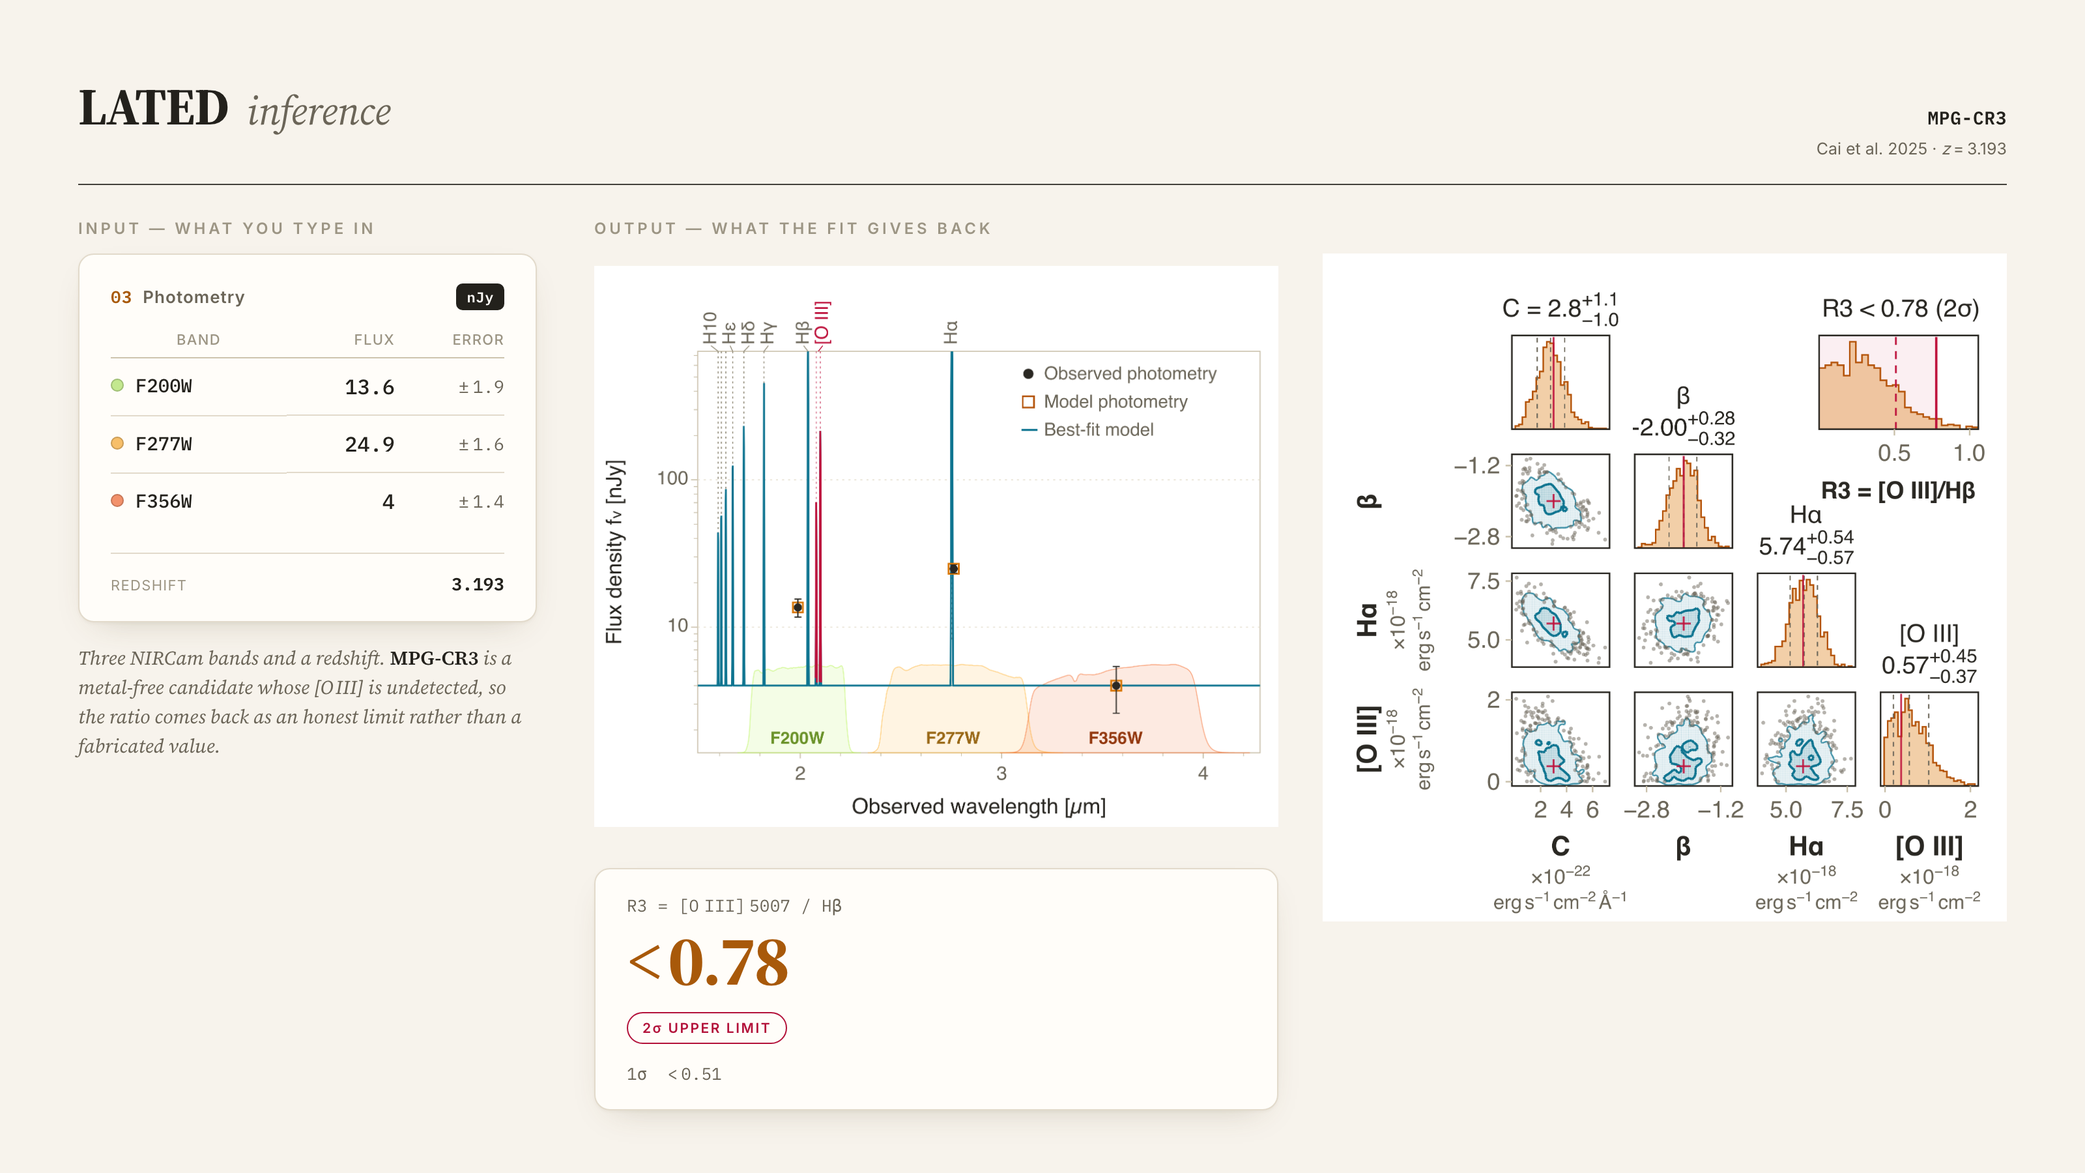
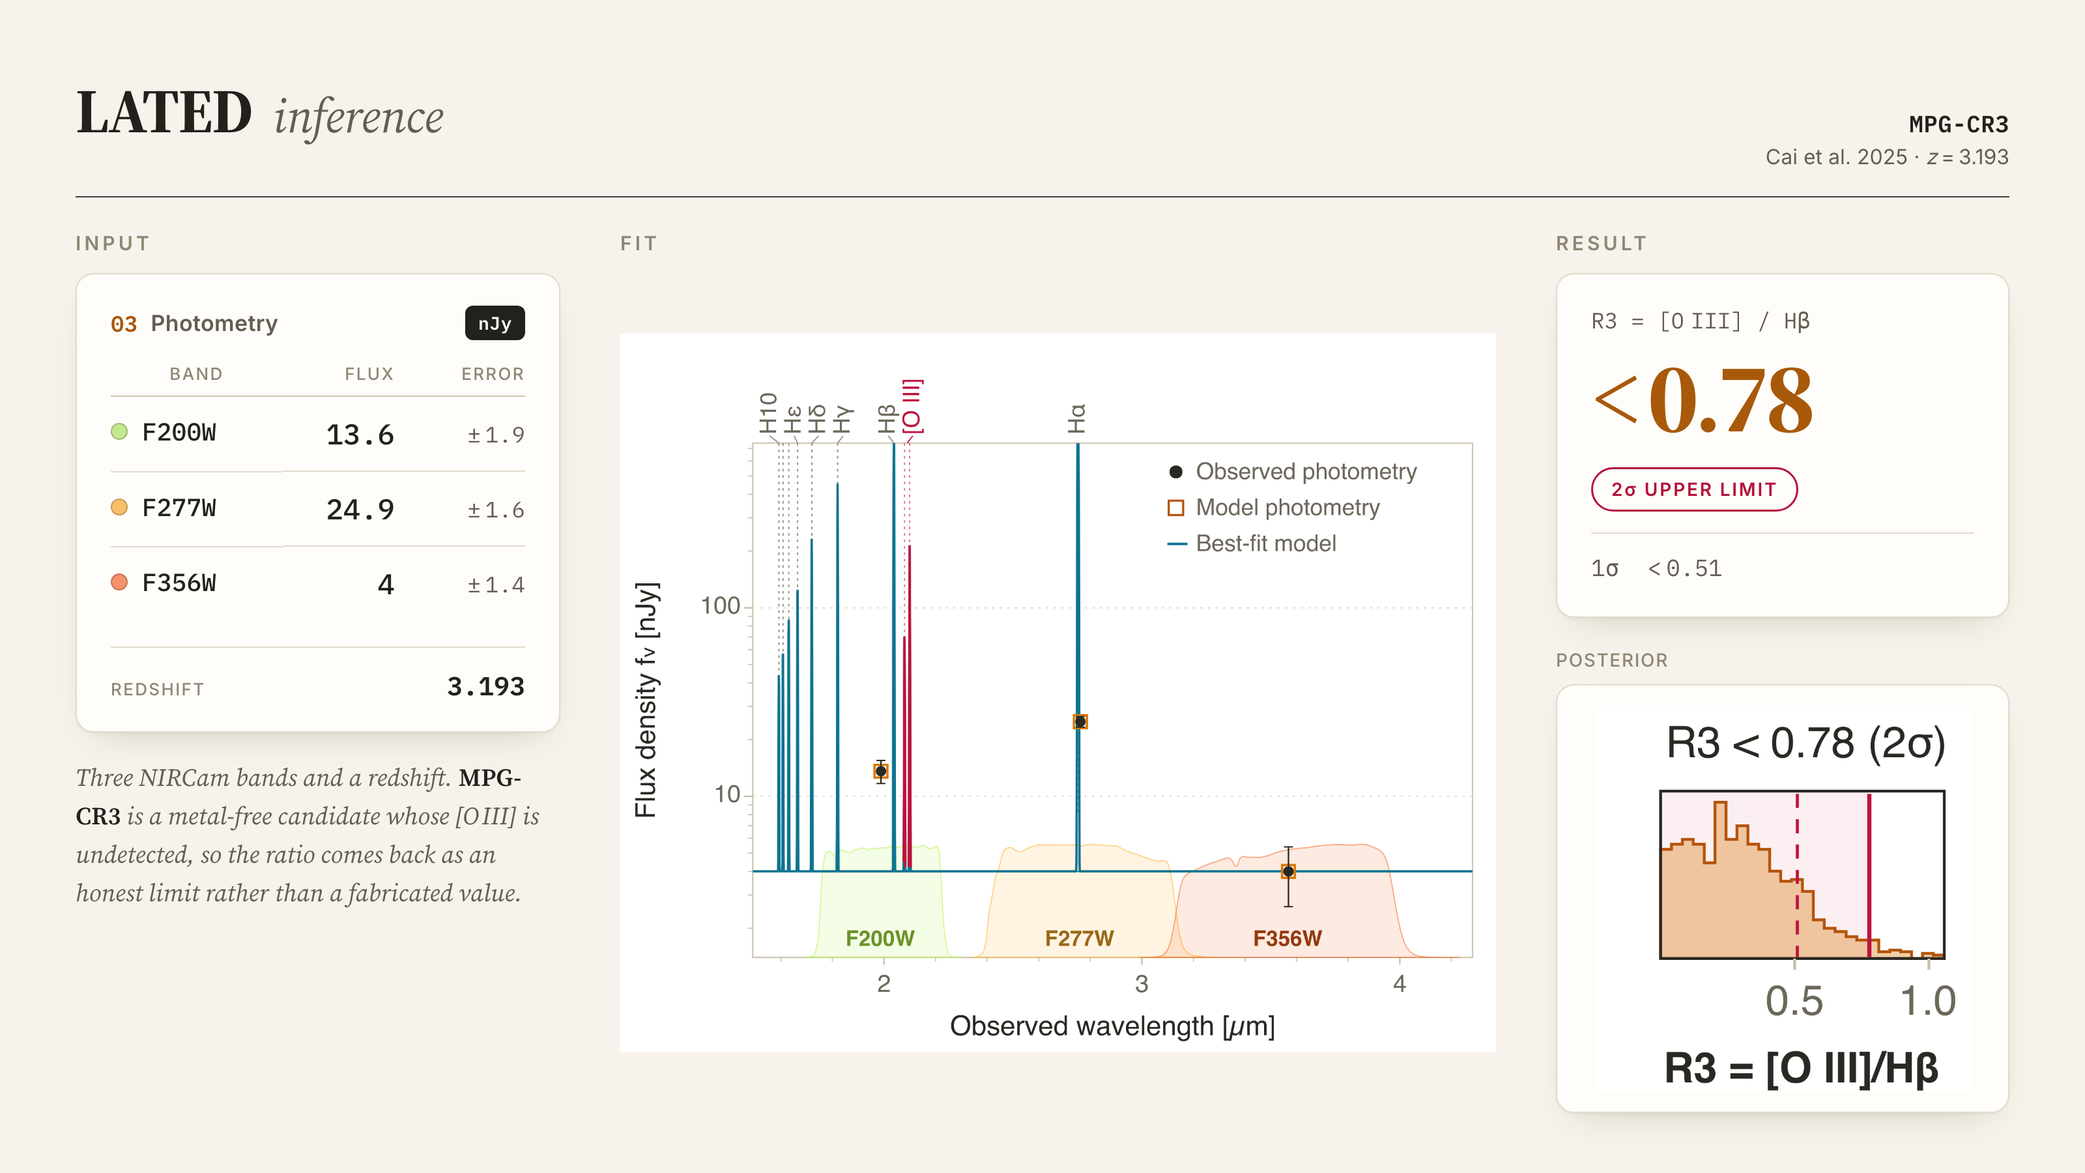
release: 0.3.2
Rebuild docs/webapp.png for legibility.  A README image is read at roughly
900 px wide, so everything in it has to survive being halved, and the previous
version did not: the chrome was set too small and the full 4x4 corner plot,
whose axis units are unreadable at any README width, was shrunk into a quarter
of the canvas.

Give the SED real estate, show only the R3 posterior panel that carries the
result, and set the text about 40 per cent larger throughout.  The figure is
authored as HTML/CSS and rendered with headless Chrome, which is what makes a
real type system possible.

Both plots remain the app's own PDF exports and the verdict numbers still come
from a live run of the packaged API.  The fit engine and public API are
untouched; all 66 tests unchanged.

diff --git a/docs/make_webapp_figure.py b/docs/make_webapp_figure.py
@@ -2,14 +2,16 @@
 
 The figure is authored as HTML/CSS and rendered with headless Chrome, which
 buys real typography (Source Serif 4, Inter, IBM Plex Mono via Google Fonts),
-proper optical spacing and hairline rules -- things a plotting library will
-not give you.
+tabular figures and optical spacing.
 
-The two plots are the app's *own* exports (`docs/cr3_sed.pdf` and
-`docs/cr3_corner.pdf`, produced by the "save PDF" buttons in the web app), so
-the figure shows exactly what a user gets rather than a reimplementation of
-it.  The verdict numbers come from a live run of the packaged API, so they
-cannot drift from the code.
+Legibility is the constraint that drives the layout.  A README image is read
+at roughly 900 px wide, so everything in it has to survive being halved.  That
+rules out the full 4x4 corner plot, whose axis units are unreadable at any
+README width; the figure shows the SED large and, of the posterior, only the
+R3 panel that carries the actual result.  The plots are the app's *own* PDF
+exports (`cr3_sed.pdf`, `cr3_corner.pdf`, from the "save PDF" buttons), and
+the verdict numbers come from a live run of the packaged API, so neither can
+drift from the code.
 
     python docs/make_webapp_figure.py
 
@@ -24,6 +26,8 @@ import shutil
 import subprocess
 import sys
 import tempfile
+
+from PIL import Image
 
 sys.path.insert(0, str(pathlib.Path(__file__).resolve().parents[1] / "src"))
 
@@ -40,6 +44,8 @@ PHOT = {"F200W": (13.6 * NJY, 1.9 * NJY),
 MC_DRAWS, MC_SEED = 3000, 9496                         # the worked-example setting
 
 SED_PDF, CORNER_PDF = HERE / "cr3_sed.pdf", HERE / "cr3_corner.pdf"
+# the R3 posterior sits in the free upper-right corner of the triangle
+R3_CROP = (0.672, 0.052, 0.980, 0.374)                 # left, top, right, bottom
 # band swatches as the app's own export draws them (sampled from cr3_sed.pdf)
 BAND_FILL = {"F200W": "#c3e88f", "F277W": "#f7bf6a", "F356W": "#f2916b"}
 
@@ -47,22 +53,28 @@ CANVAS_W, CANVAS_H, SCALE = 1600, 900, 2               # -> 3200 x 1800
 CHROME = "/Applications/Google Chrome.app/Contents/MacOS/Google Chrome"
 
 
-def rasterise(pdf: pathlib.Path, into: pathlib.Path, dpi: int = 300) -> str:
-    """Rasterise one of the app's PDF exports next to the page; return its name."""
-    stem = into / pdf.stem
+def rasterise(pdf: pathlib.Path, into: pathlib.Path, dpi: int = 300,
+              crop: tuple | None = None, name: str | None = None) -> str:
+    """Rasterise a PDF export beside the page, optionally cropping a region
+    given as fractions of the trimmed image.  Returns the file name."""
+    stem = into / (name or pdf.stem)
     subprocess.run(["pdftocairo", "-png", "-r", str(dpi), "-singlefile",
                     str(pdf), str(stem)], check=True)
-    return stem.with_suffix(".png").name
+    png = stem.with_suffix(".png")
+    if crop:
+        im = Image.open(png)
+        w, h = im.size
+        l, t, r, b = crop
+        im.crop((int(l * w), int(t * h), int(r * w), int(b * h))).save(png)
+    return png.name
 
 
 def rows_html() -> str:
-    out = []
-    for b, (f_, e_) in PHOT.items():
-        out.append(
-            f'<tr><th><i style="background:{BAND_FILL[b]}"></i>{b}</th>'
-            f'<td class="v">{f_ / NJY:g}</td>'
-            f'<td class="e">&plusmn;&thinsp;{e_ / NJY:g}</td></tr>')
-    return "\n".join(out)
+    return "\n".join(
+        f'<tr><th><i style="background:{BAND_FILL[b]}"></i>{b}</th>'
+        f'<td class="v">{f_ / NJY:g}</td>'
+        f'<td class="e">&plusmn;&thinsp;{e_ / NJY:g}</td></tr>'
+        for b, (f_, e_) in PHOT.items())
 
 
 HTML = """<!doctype html>
@@ -72,116 +84,120 @@ HTML = """<!doctype html>
 <link href="https://fonts.googleapis.com/css2?family=Source+Serif+4:ital,opsz,wght@0,8..60,400;0,8..60,600;0,8..60,700;1,8..60,400&family=Inter:wght@400;500;600&family=IBM+Plex+Mono:wght@400;500;600&display=swap" rel="stylesheet">
 <style>
   :root {{
-    --paper:#f7f3ec; --card:#fffdf9; --inset:#f2ece1;
+    --paper:#f7f3ec; --card:#fffdf9;
     --rule:#e2dacb; --rule-firm:#cdc4ae;
-    --ink:#23211c; --dim:#6b6558; --faint:#9c9584;
+    --ink:#23211c; --dim:#645e52; --faint:#8e8775;
     --amber:#a8590a; --rose:#b3123a;
   }}
   * {{ box-sizing:border-box; margin:0; padding:0; }}
   body {{
     width:{W}px; height:{H}px; background:var(--paper); color:var(--ink);
     font-family:"Inter",system-ui,sans-serif; -webkit-font-smoothing:antialiased;
-    padding:54px 60px 48px; display:flex; flex-direction:column;
+    padding:52px 58px 46px; display:flex; flex-direction:column;
   }}
   .eyebrow {{
-    font-family:"Inter",sans-serif; font-weight:600; font-size:12px;
-    letter-spacing:.20em; text-transform:uppercase; color:var(--faint);
+    font-weight:600; font-size:15px; letter-spacing:.17em;
+    text-transform:uppercase; color:var(--faint); margin-bottom:14px;
   }}
 
   /* ---------- masthead ---------- */
-  header {{ display:flex; align-items:baseline; gap:14px; padding-bottom:16px; }}
-  .word {{ font-family:"Source Serif 4",serif; font-weight:700; font-size:40px;
+  header {{ display:flex; align-items:baseline; gap:16px; padding-bottom:18px; }}
+  .word {{ font-family:"Source Serif 4",serif; font-weight:700; font-size:48px;
            letter-spacing:-.015em; }}
   .kind {{ font-family:"Source Serif 4",serif; font-style:italic; font-weight:400;
-           font-size:31px; color:var(--dim); letter-spacing:-.01em; }}
+           font-size:37px; color:var(--dim); letter-spacing:-.01em; }}
   header .spacer {{ flex:1; }}
-  .subject {{ text-align:right; line-height:1.45; }}
+  .subject {{ text-align:right; line-height:1.5; }}
   .subject b {{ font-family:"IBM Plex Mono",monospace; font-weight:600;
-                font-size:14px; letter-spacing:.02em; }}
-  .subject span {{ font-size:12.5px; color:var(--dim); }}
+                font-size:18px; letter-spacing:.01em; }}
+  .subject span {{ font-size:16px; color:var(--dim); }}
   .hr {{ height:1px; background:var(--ink); opacity:.85; }}
-  .hr.thin {{ background:var(--rule-firm); opacity:1; }}
 
   /* ---------- body grid ---------- */
-  main {{ flex:1; display:grid; grid-template-columns:352px 1fr;
-          gap:44px; padding-top:26px; min-height:0; }}
+  main {{ flex:1; display:grid; grid-template-columns:372px 1fr 348px;
+          gap:46px; padding-top:26px; min-height:0; }}
   .col {{ display:flex; flex-direction:column; min-height:0; }}
-  .col > .eyebrow {{ margin-bottom:12px; }}
 
-  /* ---------- input ---------- */
+  /* ---------- cards ---------- */
   .card {{ background:var(--card); border:1px solid var(--rule);
-           border-radius:12px; box-shadow:0 1px 2px rgba(90,75,40,.05),
-           0 10px 26px -14px rgba(90,75,40,.28); }}
-  .pcard {{ padding:22px 24px 20px; }}
-  .pcard h3 {{ font-size:13px; font-weight:600; letter-spacing:.04em;
-               color:var(--dim); display:flex; align-items:center; gap:8px; }}
+           border-radius:14px; box-shadow:0 1px 2px rgba(90,75,40,.05),
+           0 12px 28px -16px rgba(90,75,40,.30); }}
+  .pcard {{ padding:24px 26px 22px; }}
+  .pcard h3 {{ font-size:17px; font-weight:600; letter-spacing:.01em;
+               color:var(--dim); display:flex; align-items:center; gap:10px; }}
   .pcard h3 em {{ font-family:"IBM Plex Mono",monospace; font-style:normal;
                   color:var(--amber); font-weight:600; }}
-  .unit {{ margin-left:auto; font-family:"IBM Plex Mono",monospace; font-size:11px;
-           color:var(--card); background:var(--ink); padding:3px 8px;
-           border-radius:5px; letter-spacing:.03em; }}
-  table {{ width:100%; border-collapse:collapse; margin-top:16px; }}
-  thead th {{ font-size:11px; font-weight:500; color:var(--faint);
-              letter-spacing:.06em; text-transform:uppercase;
-              padding-bottom:7px; border-bottom:1px solid var(--rule-firm); }}
+  .unit {{ margin-left:auto; font-family:"IBM Plex Mono",monospace; font-size:14px;
+           color:var(--card); background:var(--ink); padding:4px 10px;
+           border-radius:6px; letter-spacing:.02em; }}
+  table {{ width:100%; border-collapse:collapse; margin-top:18px; }}
+  thead th {{ font-size:13px; font-weight:500; color:var(--faint);
+              letter-spacing:.09em; text-transform:uppercase;
+              padding-bottom:9px; border-bottom:1px solid var(--rule-firm); }}
   thead th:nth-child(2), thead th:nth-child(3) {{ text-align:right; }}
   tbody th {{ text-align:left; font-family:"IBM Plex Mono",monospace;
-              font-weight:500; font-size:14.5px; padding:11px 0;
-              display:flex; align-items:center; gap:9px; }}
-  tbody th i {{ width:10px; height:10px; border-radius:50%; display:inline-block;
-                box-shadow:inset 0 0 0 1px rgba(0,0,0,.18); }}
+              font-weight:500; font-size:19px; padding:14px 0;
+              display:flex; align-items:center; gap:11px; }}
+  tbody th i {{ width:13px; height:13px; border-radius:50%; display:inline-block;
+                box-shadow:inset 0 0 0 1px rgba(0,0,0,.20); }}
   tbody td {{ text-align:right; font-family:"IBM Plex Mono",monospace;
-              font-variant-numeric:tabular-nums; padding:11px 0; }}
-  td.v {{ font-size:16px; font-weight:500; }}
-  td.e {{ font-size:13.5px; color:var(--dim); width:84px; }}
+              font-variant-numeric:tabular-nums; padding:14px 0; }}
+  td.v {{ font-size:22px; font-weight:500; }}
+  td.e {{ font-size:17px; color:var(--dim); width:100px; }}
   tbody tr + tr th, tbody tr + tr td {{ border-top:1px solid var(--rule); }}
-  .redshift {{ margin-top:18px; padding-top:14px; border-top:1px solid var(--rule);
+  .redshift {{ margin-top:20px; padding-top:16px; border-top:1px solid var(--rule);
                display:flex; justify-content:space-between; align-items:baseline;
-               font-family:"IBM Plex Mono",monospace; font-size:13.5px; }}
-  .redshift span {{ color:var(--faint); font-size:11px; letter-spacing:.06em;
-                    text-transform:uppercase; font-family:"Inter",sans-serif; }}
-  .source {{ margin-top:16px; font-family:"Source Serif 4",serif; font-size:15px;
-             font-style:italic; color:var(--dim); line-height:1.5; }}
-  .source b {{ font-style:normal; font-weight:600; color:var(--ink); }}
+               font-family:"IBM Plex Mono",monospace; font-size:20px;
+               font-weight:500; }}
+  .redshift span {{ color:var(--faint); font-size:13px; letter-spacing:.09em;
+                    text-transform:uppercase; font-family:"Inter",sans-serif;
+                    font-weight:500; }}
+  .note {{ margin-top:20px; font-family:"Source Serif 4",serif; font-size:19px;
+           font-style:italic; color:var(--dim); line-height:1.55; }}
+  .note b {{ font-style:normal; font-weight:600; color:var(--ink); }}
 
-  /* ---------- output ---------- */
+  /* ---------- plots ---------- */
   .plot {{ min-height:0; display:flex; align-items:center;
            justify-content:center; overflow:hidden; }}
-  .plot img {{ max-width:100%; max-height:100%; width:auto; height:auto;
-               object-fit:contain; }}
-  .outgrid {{ flex:1; display:grid; grid-template-columns:1fr 1fr;
-              gap:34px; min-height:0; }}
-  .stack {{ display:flex; flex-direction:column; gap:22px; min-height:0; }}
-  .stack .sed {{ flex:1 1 0; }}
-  .stack .verdict {{ flex:0 0 186px; }}
-  .outgrid > .plot {{ align-items:flex-start; }}
-  .verdict {{ padding:18px 24px; display:flex; flex-direction:column;
-              justify-content:center; }}
-  .verdict .lab {{ font-family:"IBM Plex Mono",monospace; font-size:13px;
-                   color:var(--dim); letter-spacing:.01em; }}
+  .plot img {{ max-width:100%; max-height:100%; width:auto; height:auto; }}
+  .col.mid .plot {{ flex:1 1 0; }}
+
+  /* ---------- verdict ---------- */
+  .verdict {{ padding:24px 26px 26px; }}
+  .verdict .lab {{ font-family:"IBM Plex Mono",monospace; font-size:17px;
+                   color:var(--dim); }}
   .verdict .num {{ font-family:"Source Serif 4",serif; font-weight:700;
-                   font-size:54px; line-height:1.02; color:var(--amber);
-                   letter-spacing:-.025em; margin:6px 0 2px;
+                   font-size:76px; line-height:1.0; color:var(--amber);
+                   letter-spacing:-.03em; margin:10px 0 0;
                    font-variant-numeric:tabular-nums; }}
-  .tag {{ display:inline-block; align-self:flex-start; font-family:"Inter",sans-serif;
-          font-size:10.5px; font-weight:600; letter-spacing:.12em;
-          color:var(--rose);
-          border:1px solid var(--rose); border-radius:999px;
-          padding:5px 11px; margin-top:10px; }}
-  .verdict .one {{ margin-top:14px; font-family:"IBM Plex Mono",monospace;
-                   font-size:13px; color:var(--dim); }}
+  .tag {{ display:inline-block; font-size:14px; font-weight:600;
+          letter-spacing:.10em; color:var(--rose); border:1.5px solid var(--rose);
+          border-radius:999px; padding:7px 14px; margin-top:16px; }}
+  .verdict .one {{ margin-top:16px; padding-top:14px;
+                   border-top:1px solid var(--rule);
+                   font-family:"IBM Plex Mono",monospace; font-size:18px;
+                   color:var(--dim); }}
+  .post {{ margin-top:24px; display:flex; flex-direction:column; min-height:0;
+           flex:1 1 0; }}
+  .post .plot {{ flex:1 1 0; background:var(--card); border:1px solid var(--rule);
+                 border-radius:14px; padding:16px 18px;
+                 box-shadow:0 1px 2px rgba(90,75,40,.05),
+                            0 12px 28px -16px rgba(90,75,40,.30); }}
+  .post .cap {{ font-size:14px; color:var(--faint); letter-spacing:.06em;
+                text-transform:uppercase; font-weight:500; margin-bottom:10px; }}
 </style></head>
 <body>
   <header>
     <span class="word">LATED</span><span class="kind">inference</span>
     <span class="spacer"></span>
-    <span class="subject"><b>{SOURCE}</b><br><span>{REFERENCE} &middot; <i>z</i>&thinsp;=&thinsp;{Z}</span></span>
+    <span class="subject"><b>{SOURCE}</b><br>
+      <span>{REFERENCE} &middot; <i>z</i>&thinsp;=&thinsp;{Z}</span></span>
   </header>
   <div class="hr"></div>
 
   <main>
     <section class="col">
-      <div class="eyebrow">Input &mdash; what you type in</div>
+      <div class="eyebrow">Input</div>
       <div class="card pcard">
         <h3><em>03</em> Photometry <span class="unit">nJy</span></h3>
         <table>
@@ -192,24 +208,27 @@ HTML = """<!doctype html>
         </table>
         <div class="redshift"><span>Redshift</span><b>{Z}</b></div>
       </div>
-      <p class="source">Three NIRCam bands and a redshift. <b>{SOURCE}</b> is a
-      metal&#8209;free candidate whose [O&#8239;III] is undetected, so the ratio
-      comes back as an honest limit rather than a fabricated value.</p>
+      <p class="note">Three NIRCam bands and a redshift. <b>{SOURCE}</b> is a
+      metal&#8209;free candidate whose [O&#8239;III] is undetected, so the
+      ratio comes back as an honest limit rather than a fabricated value.</p>
+    </section>
+
+    <section class="col mid">
+      <div class="eyebrow">Fit</div>
+      <div class="plot"><img src="{SED}" alt="best-fit model through the bands"></div>
     </section>
 
     <section class="col">
-      <div class="eyebrow">Output &mdash; what the fit gives back</div>
-      <div class="outgrid">
-        <div class="stack">
-          <div class="plot sed"><img src="{SED}" alt="SED"></div>
-          <div class="card verdict">
-            <div class="lab">R3 = [O&#8239;III]&thinsp;5007 / H&beta;</div>
-            <div class="num">&lt;&thinsp;{P975}</div>
-            <span class="tag">2&sigma; UPPER LIMIT</span>
-            <div class="one">1&sigma; &nbsp;&lt;&thinsp;{P84}</div>
-          </div>
-        </div>
-        <div class="plot"><img src="{CORNER}" alt="corner"></div>
+      <div class="eyebrow">Result</div>
+      <div class="card verdict">
+        <div class="lab">R3 = [O&#8239;III] / H&beta;</div>
+        <div class="num">&lt;&thinsp;{P975}</div>
+        <span class="tag">2&sigma; UPPER LIMIT</span>
+        <div class="one">1&sigma;&nbsp;&nbsp;&lt;&thinsp;{P84}</div>
+      </div>
+      <div class="post">
+        <div class="cap">Posterior</div>
+        <div class="plot"><img src="{R3}" alt="R3 posterior"></div>
       </div>
     </section>
   </main>
@@ -228,11 +247,12 @@ def main():
     out = HERE / "webapp.png"
     with tempfile.TemporaryDirectory() as td:
         work = pathlib.Path(td)
-        html = HTML.format(W=CANVAS_W, H=CANVAS_H, SOURCE=SOURCE,
-                           REFERENCE=REFERENCE, Z=Z, ROWS=rows_html(),
-                           SED=rasterise(SED_PDF, work),
-                           CORNER=rasterise(CORNER_PDF, work),
-                           P975=f"{p.p975:.2f}", P84=f"{p.p84:.2f}")
+        html = HTML.format(
+            W=CANVAS_W, H=CANVAS_H, SOURCE=SOURCE, REFERENCE=REFERENCE, Z=Z,
+            ROWS=rows_html(),
+            SED=rasterise(SED_PDF, work),
+            R3=rasterise(CORNER_PDF, work, crop=R3_CROP, name="cr3_r3"),
+            P975=f"{p.p975:.2f}", P84=f"{p.p84:.2f}")
         page = work / "figure.html"
         page.write_text(html, encoding="utf-8")
         shot = work / "shot.png"

diff --git a/src/lated/__init__.py b/src/lated/__init__.py
@@ -22,7 +22,7 @@ from .lines import (BALMER_CASES, BALMER_TABLE, CASE_A_TEMPERATURES,
                     balmer_ratios, case_b_ratios)
 from .presets import WINDOW_PRESETS, WindowPreset
 
-__version__ = "0.3.1"
+__version__ = "0.3.2"
 
 __all__ = [
     "ContinuumConfig", "DustConfig", "FitConfig", "LineConfig", "MCConfig",

diff --git a/CHANGELOG.md b/CHANGELOG.md
@@ -1,5 +1,25 @@
 # Changelog
 
+## 0.3.2 (2026-09-21)
+
+README figure only; the fit engine and API are untouched (all 66 tests
+unchanged).
+
+### Changed
+- **`docs/webapp.png` rebuilt for legibility.**  A README image is read at
+  roughly 900 px wide, so everything in it has to survive being halved.  The
+  previous version failed that test: the chrome was set too small and the full
+  4x4 corner plot, whose axis units are unreadable at any README width, was
+  shrunk into a quarter of the canvas.  The figure now gives the SED real
+  estate, shows only the R3 posterior panel that carries the result, and sets
+  its text about 40 per cent larger throughout.
+- **The figure is authored as HTML/CSS and rendered with headless Chrome**
+  rather than composed in matplotlib, which is what makes a real type system
+  possible (Source Serif 4 for display, Inter for labels, IBM Plex Mono with
+  tabular figures for data).  Both plots remain the app's own PDF exports and
+  the verdict numbers still come from a live run of the packaged API, so
+  neither can drift from the code.
+
 ## 0.3.1 (2026-09-21)
 
 Naming and the README figure; the fit engine and API are untouched (all 66
